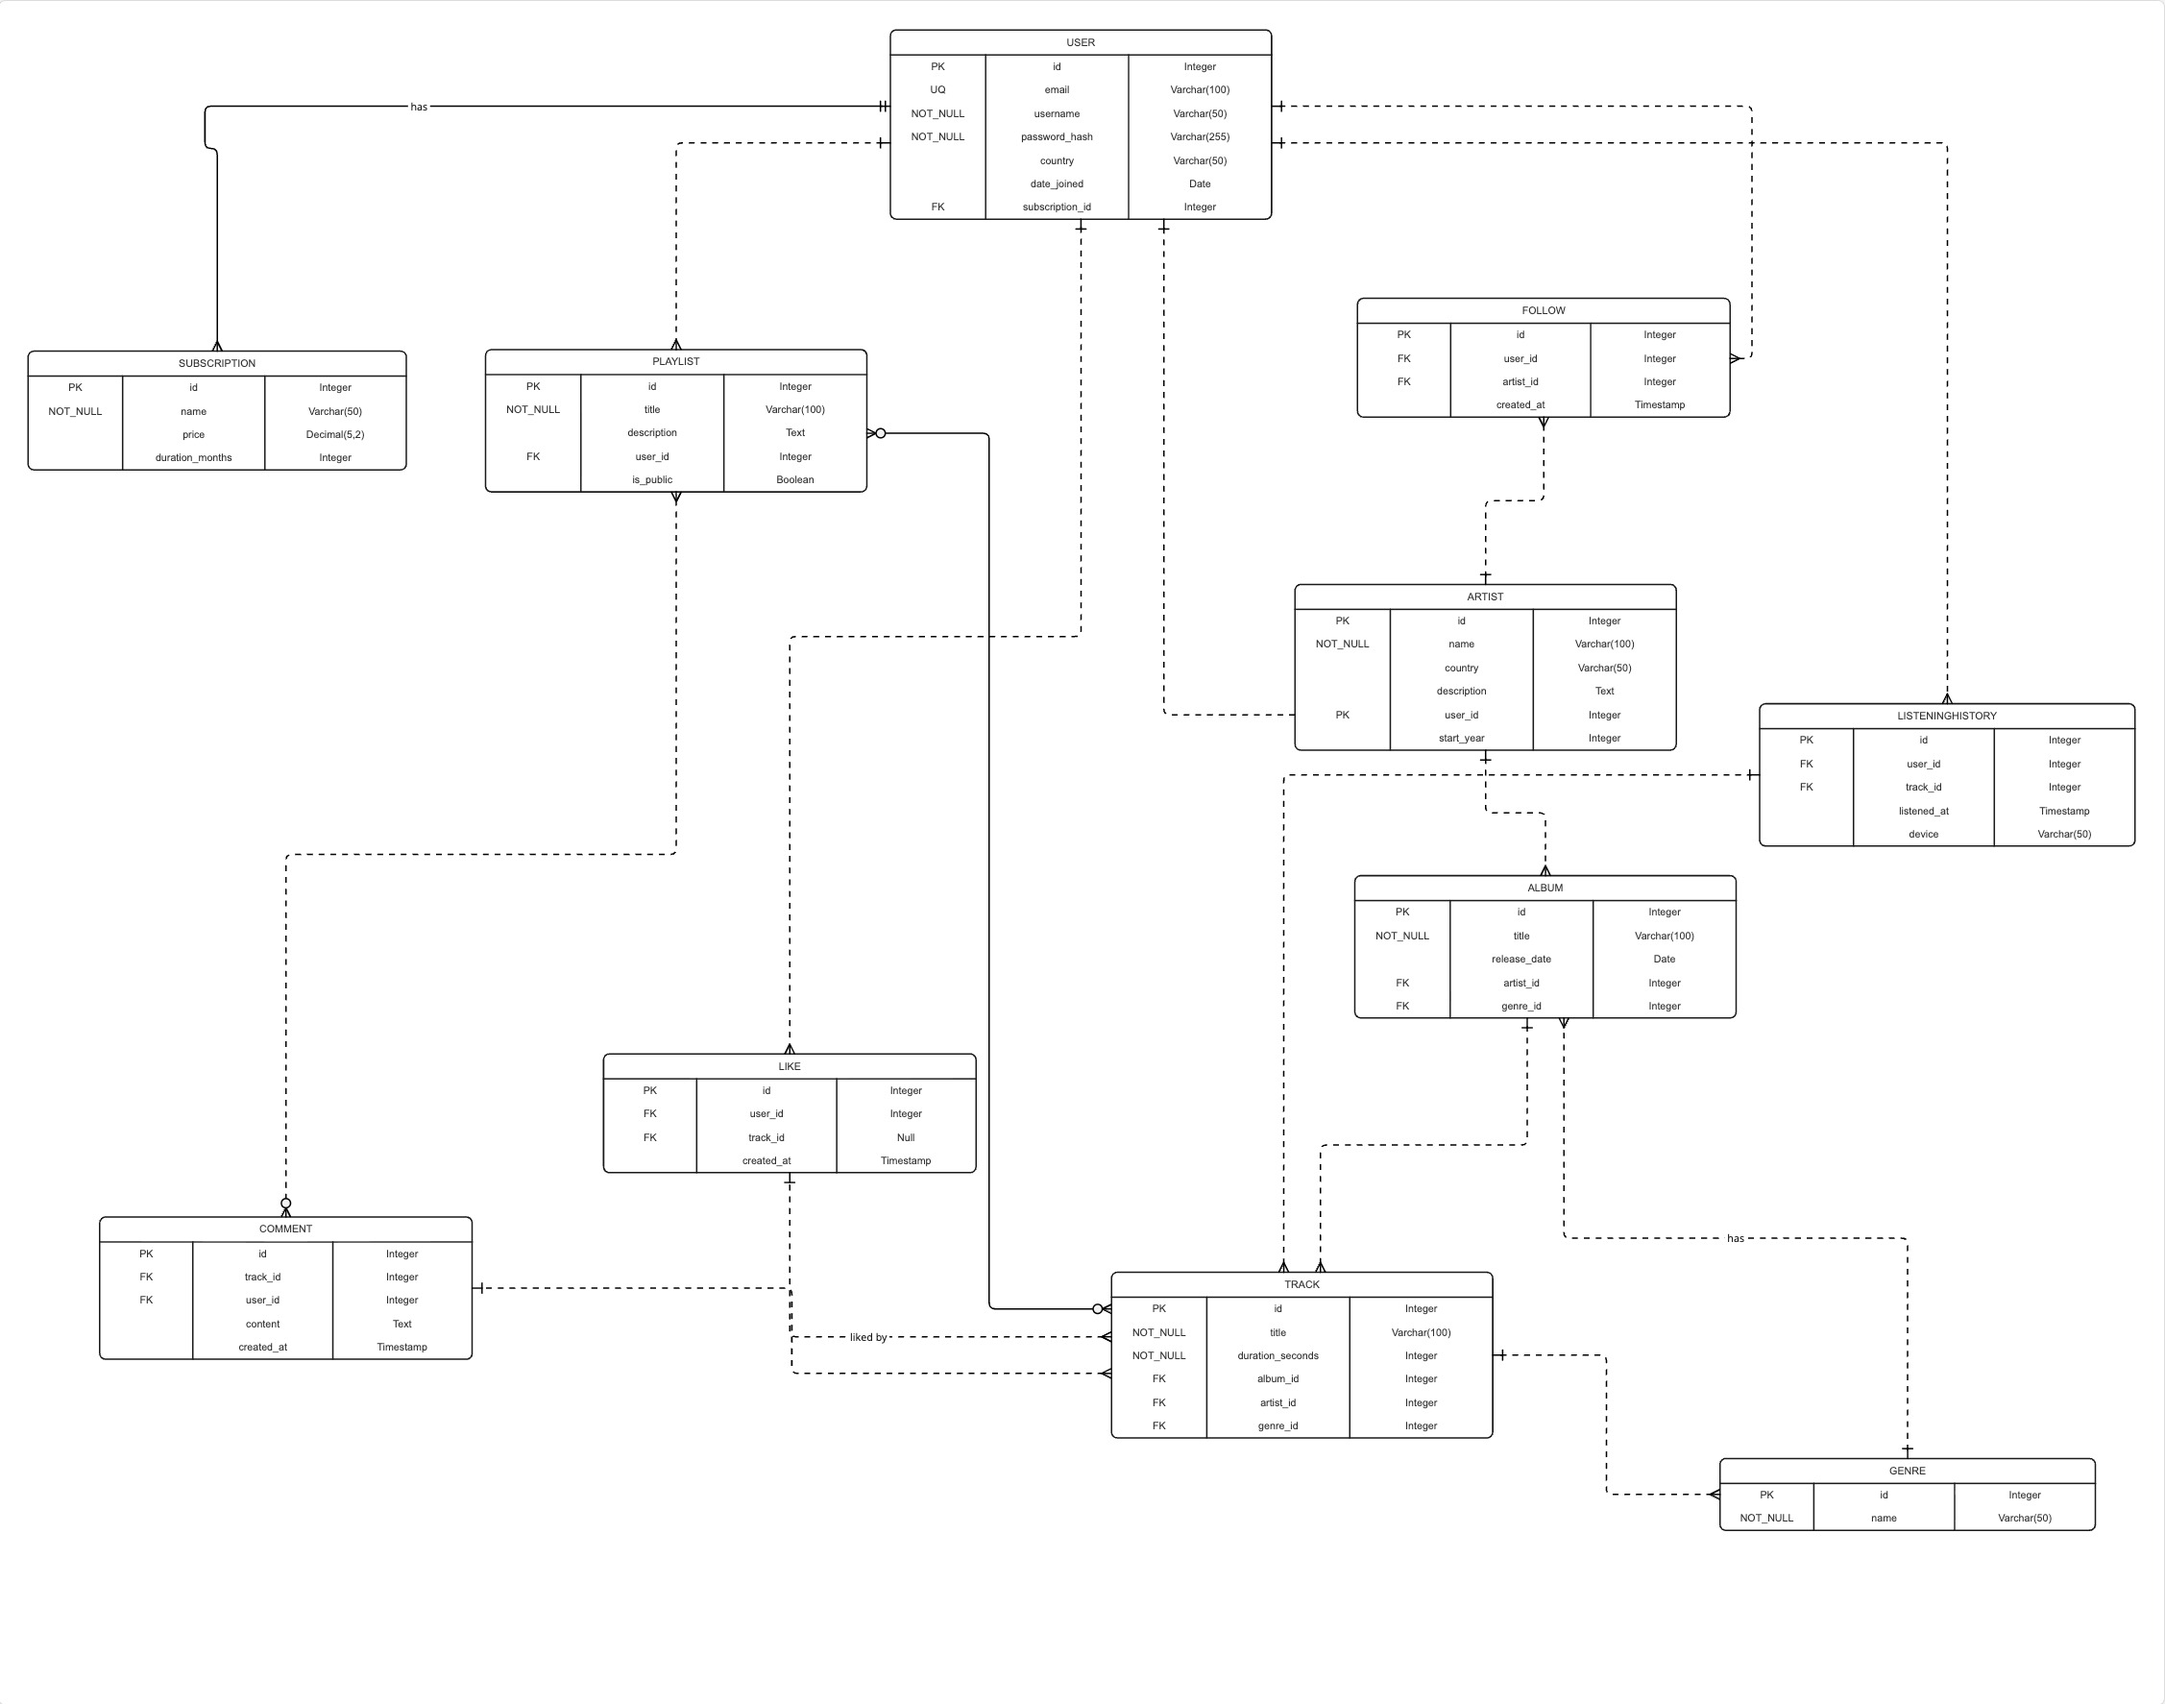
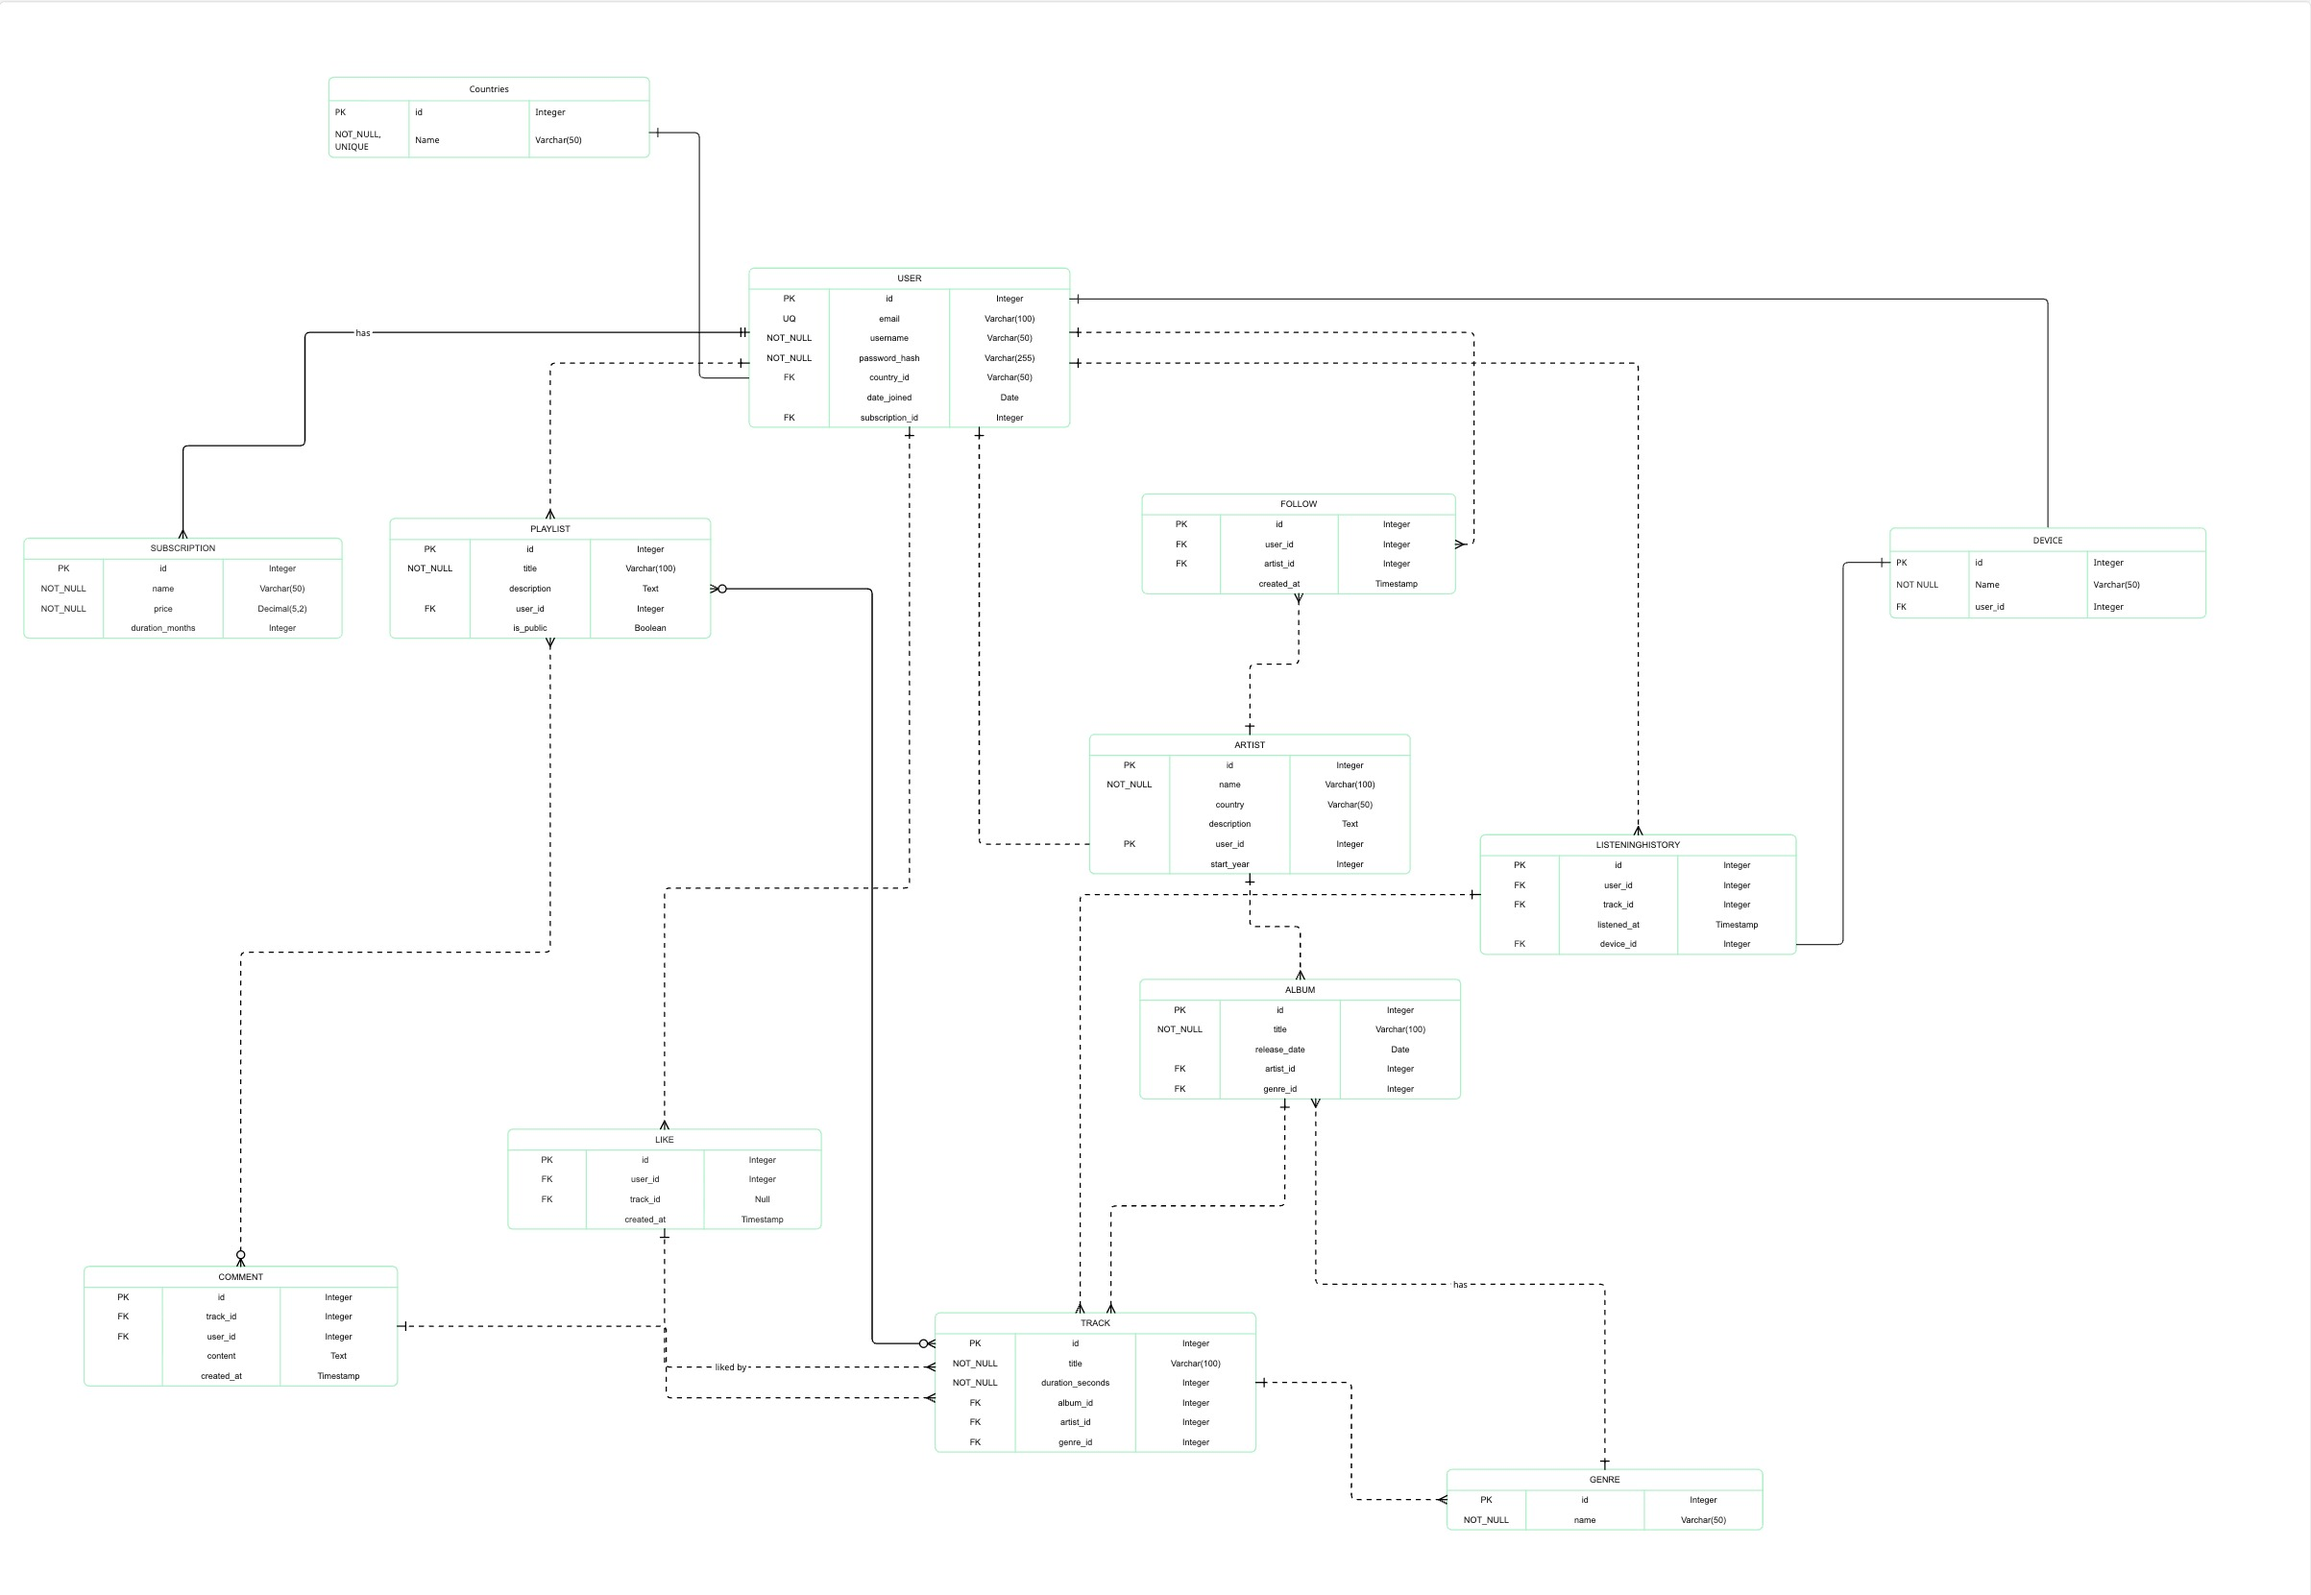
hw3

diff --git a/README.md b/README.md
@@ -1,3 +1,7 @@
 # Домашняя работа по базам данных
 
 **Авторы**: Абдрафиков Амир, Лукманов Тимур **Группа**: 11-400
+
+# ДЗ 3
+- Вынесли country в User в отдельную таблицу Countries и добавили FK, так как там нарушалась 1 НФ.
+- Вынесли Device в отдельную таблицу и связали с User, так как там нарушалась 1 НФ
